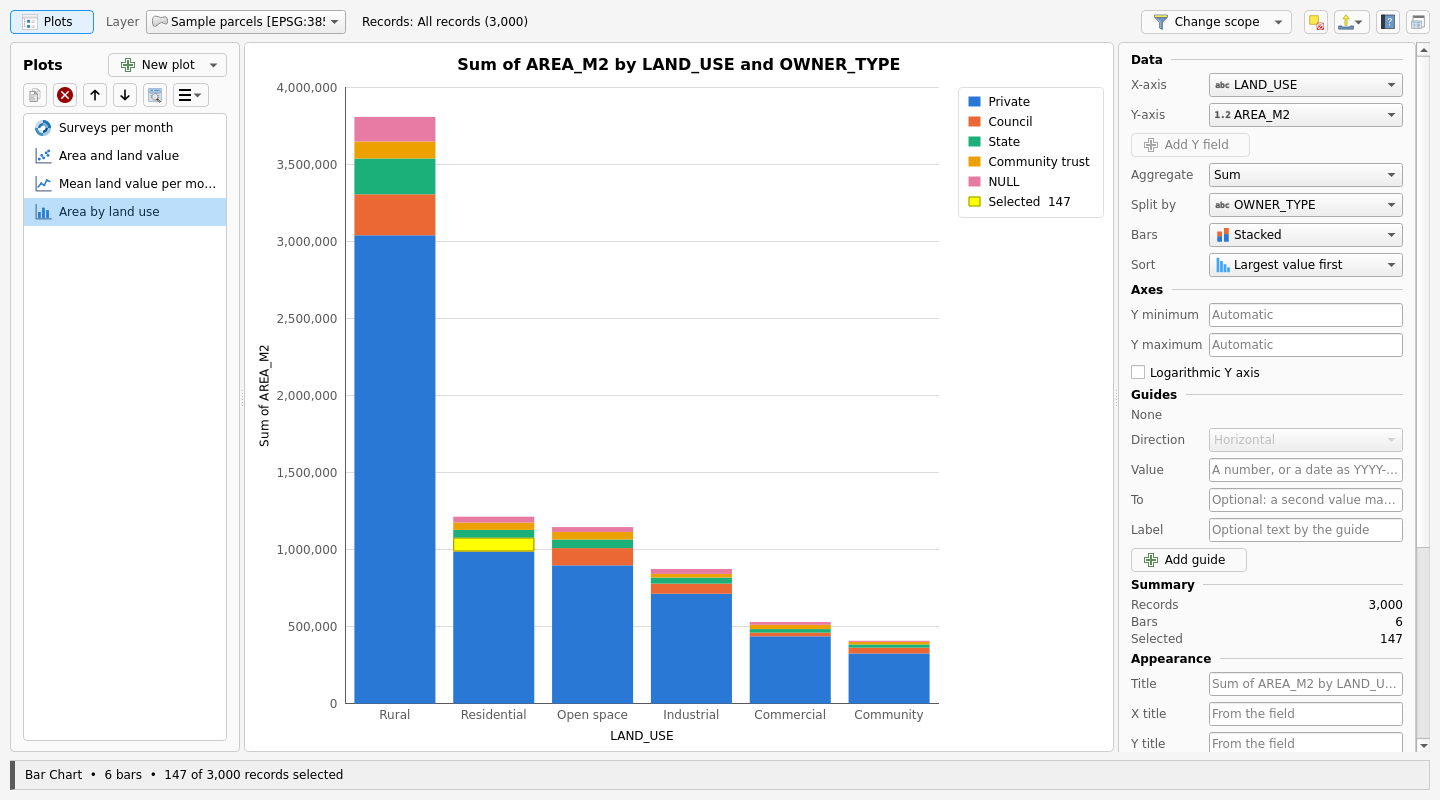
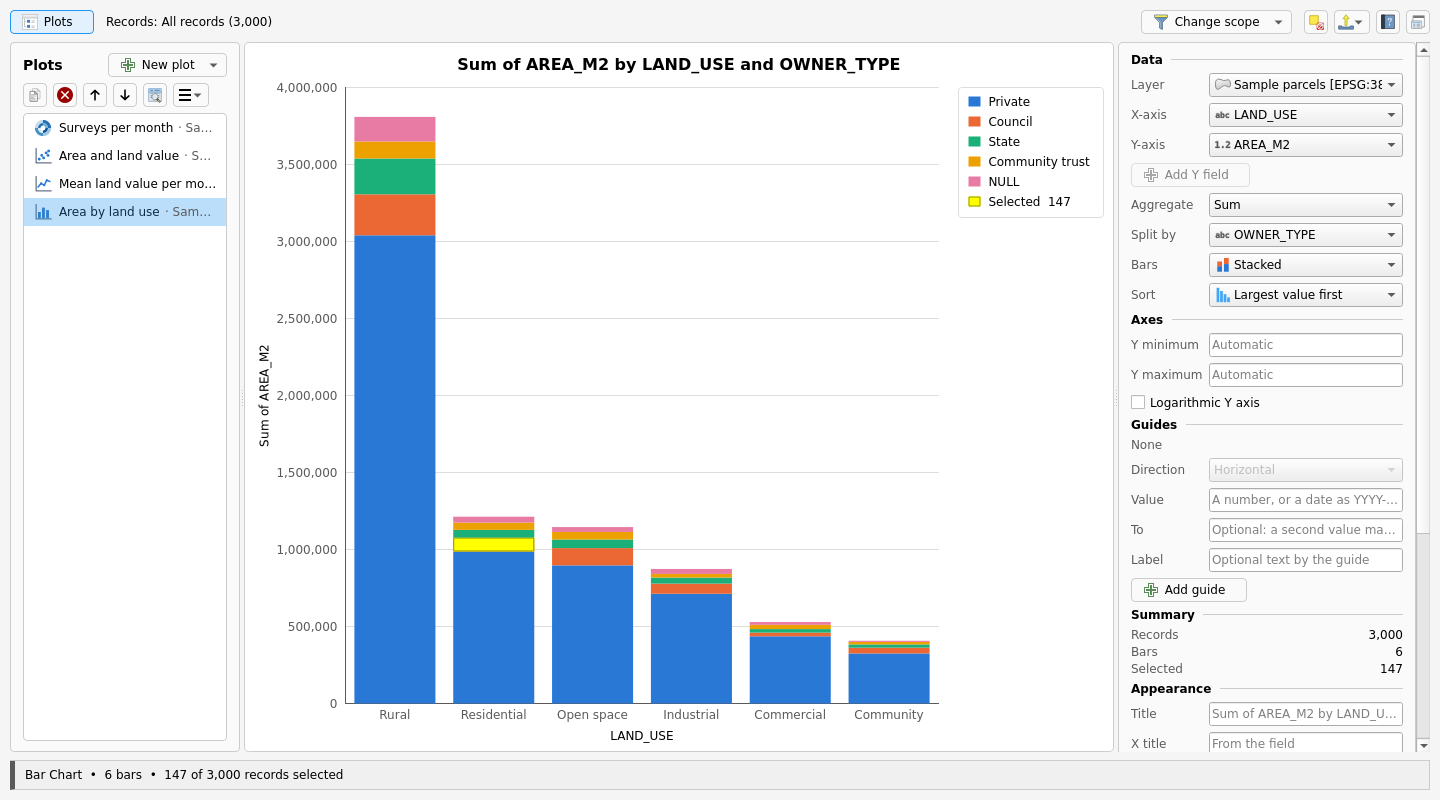
Round 5: plots keep their own layer (Help, README, changelog)
- Decided: a plot whose layer leaves the project stays in the list,
  greyed, without asking, until it is deleted or given another layer; the
  list keeps each plot's layer dimmed after its name.
- Help: the window's text describes one list of every plot, the Layer row
  of Data, New plot, records per plot, removed layers and plot files; the
  Overview picture numbers the Layer row after the list. Every Data Plot
  picture made again (the cards now start with Layer).
- README: Plots and Records describe the one list and records per plot;
  the Data Plot screenshots made again. Changelog and plans updated.

Claude-Session: https://claude.ai/code/session_01Dz8GridfoCRSDNA4bXQhTf

Changed region(s): [[0.7812, 0.0938, 0.9688, 0.9375], [0.0625, 0.0, 0.2188, 0.0312], [0.25, 0.0, 0.375, 0.0312]]

diff --git a/ui/help_dialog.py b/ui/help_dialog.py
@@ -529,28 +529,39 @@ PLOT_HELP = """
 <p>Plots made from a layer's records, with the options ArcGIS Pro gives its
 charts. Open it from the <b>Data Plot</b> button of the Attribute Table
 Studio toolbar, the plugin menu or the <b>Data Plot</b> button of Attribute
-Explorer's top bar (its menu lists the plot types; the plot opens with the
-Explorer's filtered records). Data Plot is separate from Visualize
+Explorer's top bar (its menu lists the plot types; a new plot of that layer
+opens with the Explorer's filtered records). Data Plot is separate from Visualize
 Statistics (one column of an Attribute Explorer) and from the Pivot Table
 chart.</p>
 <h4>The window</h4>
 <ul>
-<li><b>Layer</b>: any vector layer, with or without geometry.</li>
+<li><b>Plots</b> (the list on the left) holds every plot of the project.
+Each plot is made from a layer of its own, shown dimmed after its name;
+plots of different layers sit in the same list. Click a plot to show it;
+rename it (double-click), duplicate, delete or move it with the buttons
+above the list. <b>Open in new window</b> shows a plot in a second window,
+beside the first.</li>
+<li><b>Layer</b> (the first row of Data in the settings card): the layer
+the plot is made from, any vector layer with or without geometry. Choosing
+another keeps the fields that have the same names there; the others go
+back to <i>Choose a field…</i>.</li>
+<li><b>New plot</b> makes a plot on the layer of the plot shown (the active
+layer when the list is empty); change its layer under Data.</li>
 <li><b>Records</b> (<b>Change scope</b>): All records, the Attribute Explorer's filtered records
 (open the layer in Attribute Explorer first), Selected records or the
-Visible map extent. The plot follows them: a new filter, selection, map
-extent or edit draws it again. Big layers are read in the background
-(progress and Cancel in the status bar).</li>
-<li><b>New plot</b> adds a plot to the layer's list on the left. Click a
-plot to show it; rename it (double-click), duplicate, delete or move it
-with the buttons above the list. <b>Open in new window</b> shows a plot in
-a second window, beside the first.</li>
+Visible map extent, kept with each plot. The plot follows them: a new
+filter, selection, map extent or edit draws it again. Big layers are read
+in the background (progress and Cancel in the status bar).</li>
+<li>When a plot's layer is removed from the project, the plot stays in the
+list, greyed, until you delete it or choose another layer for it under
+Data.</li>
 <li><b>Plots</b> (top left) hides the list of plots, so the plot takes its
 width; click it again to show the list. Every window opens with the list
 shown.</li>
-<li>The plots of every layer are saved in the QGIS project and come back
-when it opens. <b>Save plot to file</b> and <b>Load plot from file</b>
-move a plot to another project or layer with the same field names.</li>
+<li>The plots are saved in the QGIS project and come back when it opens.
+<b>Save plot to file</b> and <b>Load plot from file</b> move a plot to
+another project or layer: it is made again on the layer of the plot shown,
+and its layer can then be changed under Data.</li>
 <li><b>Export</b>: PNG or SVG image, copy the image, or the plotted values
 as CSV.</li>
 </ul>

diff --git a/ui/help_pages.py b/ui/help_pages.py
@@ -656,9 +656,6 @@ PLOT = [
             I("plots_btn", "Plots",
               "Hide the list of plots, so the plot takes its width; click again to show "
               "it. Every window opens with the list shown.", icons.LIST_VIEW),
-            I("@row:Layer", "Layer",
-              "The layer this plot is made from (each plot has its own); choosing another "
-              "keeps the fields that have the same names there."),
             I("scope_label", "Records", "Which records the plots show, and how many."),
             I("scope_btn", "Change scope",
               "All records, the Attribute Explorer's filtered records, the selected "
@@ -679,9 +676,14 @@ PLOT = [
               "down, open it in a second window beside this one, and More: rename it, "
               "save it to a file or load one from a file (on another layer with the "
               "same field names)."),
-            I("plot_list", "The layer's plots",
-              "Click a plot to show it; double-click to rename it; right-click for the "
-              "same actions."),
+            I("plot_list", "The plots",
+              "Every plot of the project, each with its layer dimmed after its name. Click "
+              "a plot to show it; double-click to rename it; right-click for the same "
+              "actions. A plot whose layer left the project stays, greyed, until you "
+              "delete it or give it another layer."),
+            I("@row:Layer", "Layer",
+              "The layer the plot shown is made from (each plot has its own). Choosing another "
+              "keeps the fields that have the same names there."),
             I("props", "Settings",
               "The plot's settings in one card: Data (its fields), then Axes, Guides, "
               "Summary and Appearance. Each plot type's tab shows its own."),

diff --git a/README.md b/README.md
@@ -355,23 +355,27 @@ the profiles afterwards; stale results are never shown.
 Plots of a layer's records, with the twelve chart types of ArcGIS Pro and the
 options it gives each. Open it from the **Data Plot** button of the toolbar
 (after Pivot Table), the plugin menu, or Attribute Explorer's **Data Plot**
-button: its menu lists the plot types, and the plot opens with the
-Explorer's filtered records. Data Plot is separate from Visualize Statistics
+button: its menu lists the plot types, and a new plot of that layer opens
+with the Explorer's filtered records. Data Plot is separate from Visualize Statistics
 (one column of an Attribute Explorer) and from the Pivot Table chart.
 
 ![Data Plot](docs/screenshots/dark_plot.png)
 
-- **Records**: all records, the Attribute Explorer's filtered records,
-  selected records or the visible map extent (*Change scope*). The plot
-  follows them live: a new filter, selection, map extent or edit draws it
-  again. Big layers are read in the background (progress and Cancel in the
-  status bar) and only the fields a plot uses are kept.
-- **Plots**: every layer keeps a list of plots, saved in the QGIS project.
+- **Plots**: one list of every plot of the project, saved in the QGIS
+  project. Each plot is made from a layer of its own (dimmed after its
+  name), chosen in the first row of Data; choosing another layer keeps the
+  fields that have the same names. A plot whose layer leaves the project
+  stays in the list, greyed, until you delete it or give it another layer.
   New plot sits beside the Plots heading and the list's buttons above the
-  list: rename, duplicate, delete, move, *Open in new window* (two plots side by side), *Save plot to
-  file* and *Load plot from file*. The **Plots** button at the top left hides
-  the list for a wider plot and shows it again; every window opens with the
-  list shown.
+  list: rename, duplicate, delete, move, *Open in new window* (two plots side
+  by side), *Save plot to file* and *Load plot from file*. The **Plots**
+  button at the top left hides the list for a wider plot and shows it again;
+  every window opens with the list shown.
+- **Records**, kept with each plot: all records, the Attribute Explorer's
+  filtered records, selected records or the visible map extent (*Change
+  scope*). The plot follows them live: a new filter, selection, map extent
+  or edit draws it again. Big layers are read in the background (progress
+  and Cancel in the status bar) and only the fields a plot uses are kept.
 
   ![Scatter plot with the list hidden](docs/screenshots/dark_plot_scatter.png)
 - **Settings** in one card, as in Visualize Statistics: *Data* (an

diff --git a/docs/plans/PLOT_MANAGER.md b/docs/plans/PLOT_MANAGER.md
@@ -1,7 +1,6 @@
 # Plots that keep their own layer: plan
 
-Status: **being built** as Round 5 of version 1.4 (dev-v5); questions
-answered.
+Status: **built** as Round 5 of version 1.4 (dev-v5).
 
 ## Now
 
@@ -35,9 +34,9 @@ per plot in the settings card, like its fields.
   list is empty); the layer can then be changed in the card.
 - **Attribute Explorer's Data Plot button**: adds a new plot of that layer
   with the Explorer's filtered records to the list and shows it (as now).
-- **A layer leaves the project**: its plots stay in the list, marked *layer
-  not in the project* (greyed, with a warning icon). Choosing a layer in the
-  card brings one back (fields by name); or delete it.
+- **A layer leaves the project**: its plots stay in the list, greyed and
+  marked *not in the project*, without asking, until you delete them or
+  choose another layer in the card (fields by name).
 - **Plot files**: *Save plot to file* records the layer's name; *Load plot
   from file* adds it to the list on the layer of the plot shown, and the
   layer can be changed in the card.
@@ -60,3 +59,19 @@ before the plot editing mode, which builds on it.
    layers: one list, the layer after each name.
 2. Records are kept per plot.
 3. Built in 1.4, before its release.
+4. A plot whose layer is removed stays, greyed; nothing asks, nothing is
+   deleted until you delete it.
+5. The list as built (the layer dimmed after each name) is good; the layer
+   also shows in the card.
+
+## Built
+
+As proposed above. Choices made while building:
+
+- Only a layer you pick in the Layer box moves a plot: the box also moves
+  by itself when a layer leaves the project, and the plot must not follow
+  it then.
+- Plots read from a project are completed from a new plot of their type
+  when an earlier version (or a hand edit) left settings out.
+- A read that finishes after another plot was chosen no longer builds that
+  plot from the wrong fields (it reads again).

diff --git a/docs/plans/DEV_V5.md b/docs/plans/DEV_V5.md
@@ -11,7 +11,7 @@ stay as they are.
 | 2 | Combo Chart, Pie Chart, Histogram, Box Plot | Built |
 | 3 | Scatter Plot Matrix, QQ Plot, Matrix Heat Chart, Calendar Heat Chart, Data Clock | Built |
 | 4 | Help, README, screenshots, 1.4 changelog | Built |
-| 5 | Plots keep their own layer: one list of every plot, the layer in the card, records per plot ([PLOT_MANAGER.md](PLOT_MANAGER.md)) | Building |
+| 5 | Plots keep their own layer: one list of every plot, the layer in the card, records per plot ([PLOT_MANAGER.md](PLOT_MANAGER.md)) | Built |
 | 6 to 8 | Plot editing mode: the mode and the canvas look, added objects, plot files with both, Help ([PLOT_EDIT_MODE.md](PLOT_EDIT_MODE.md)) | Planned |
 
 Each round is tested on QGIS 4.4.0 and then QGIS 3.44.14, committed and pushed to
